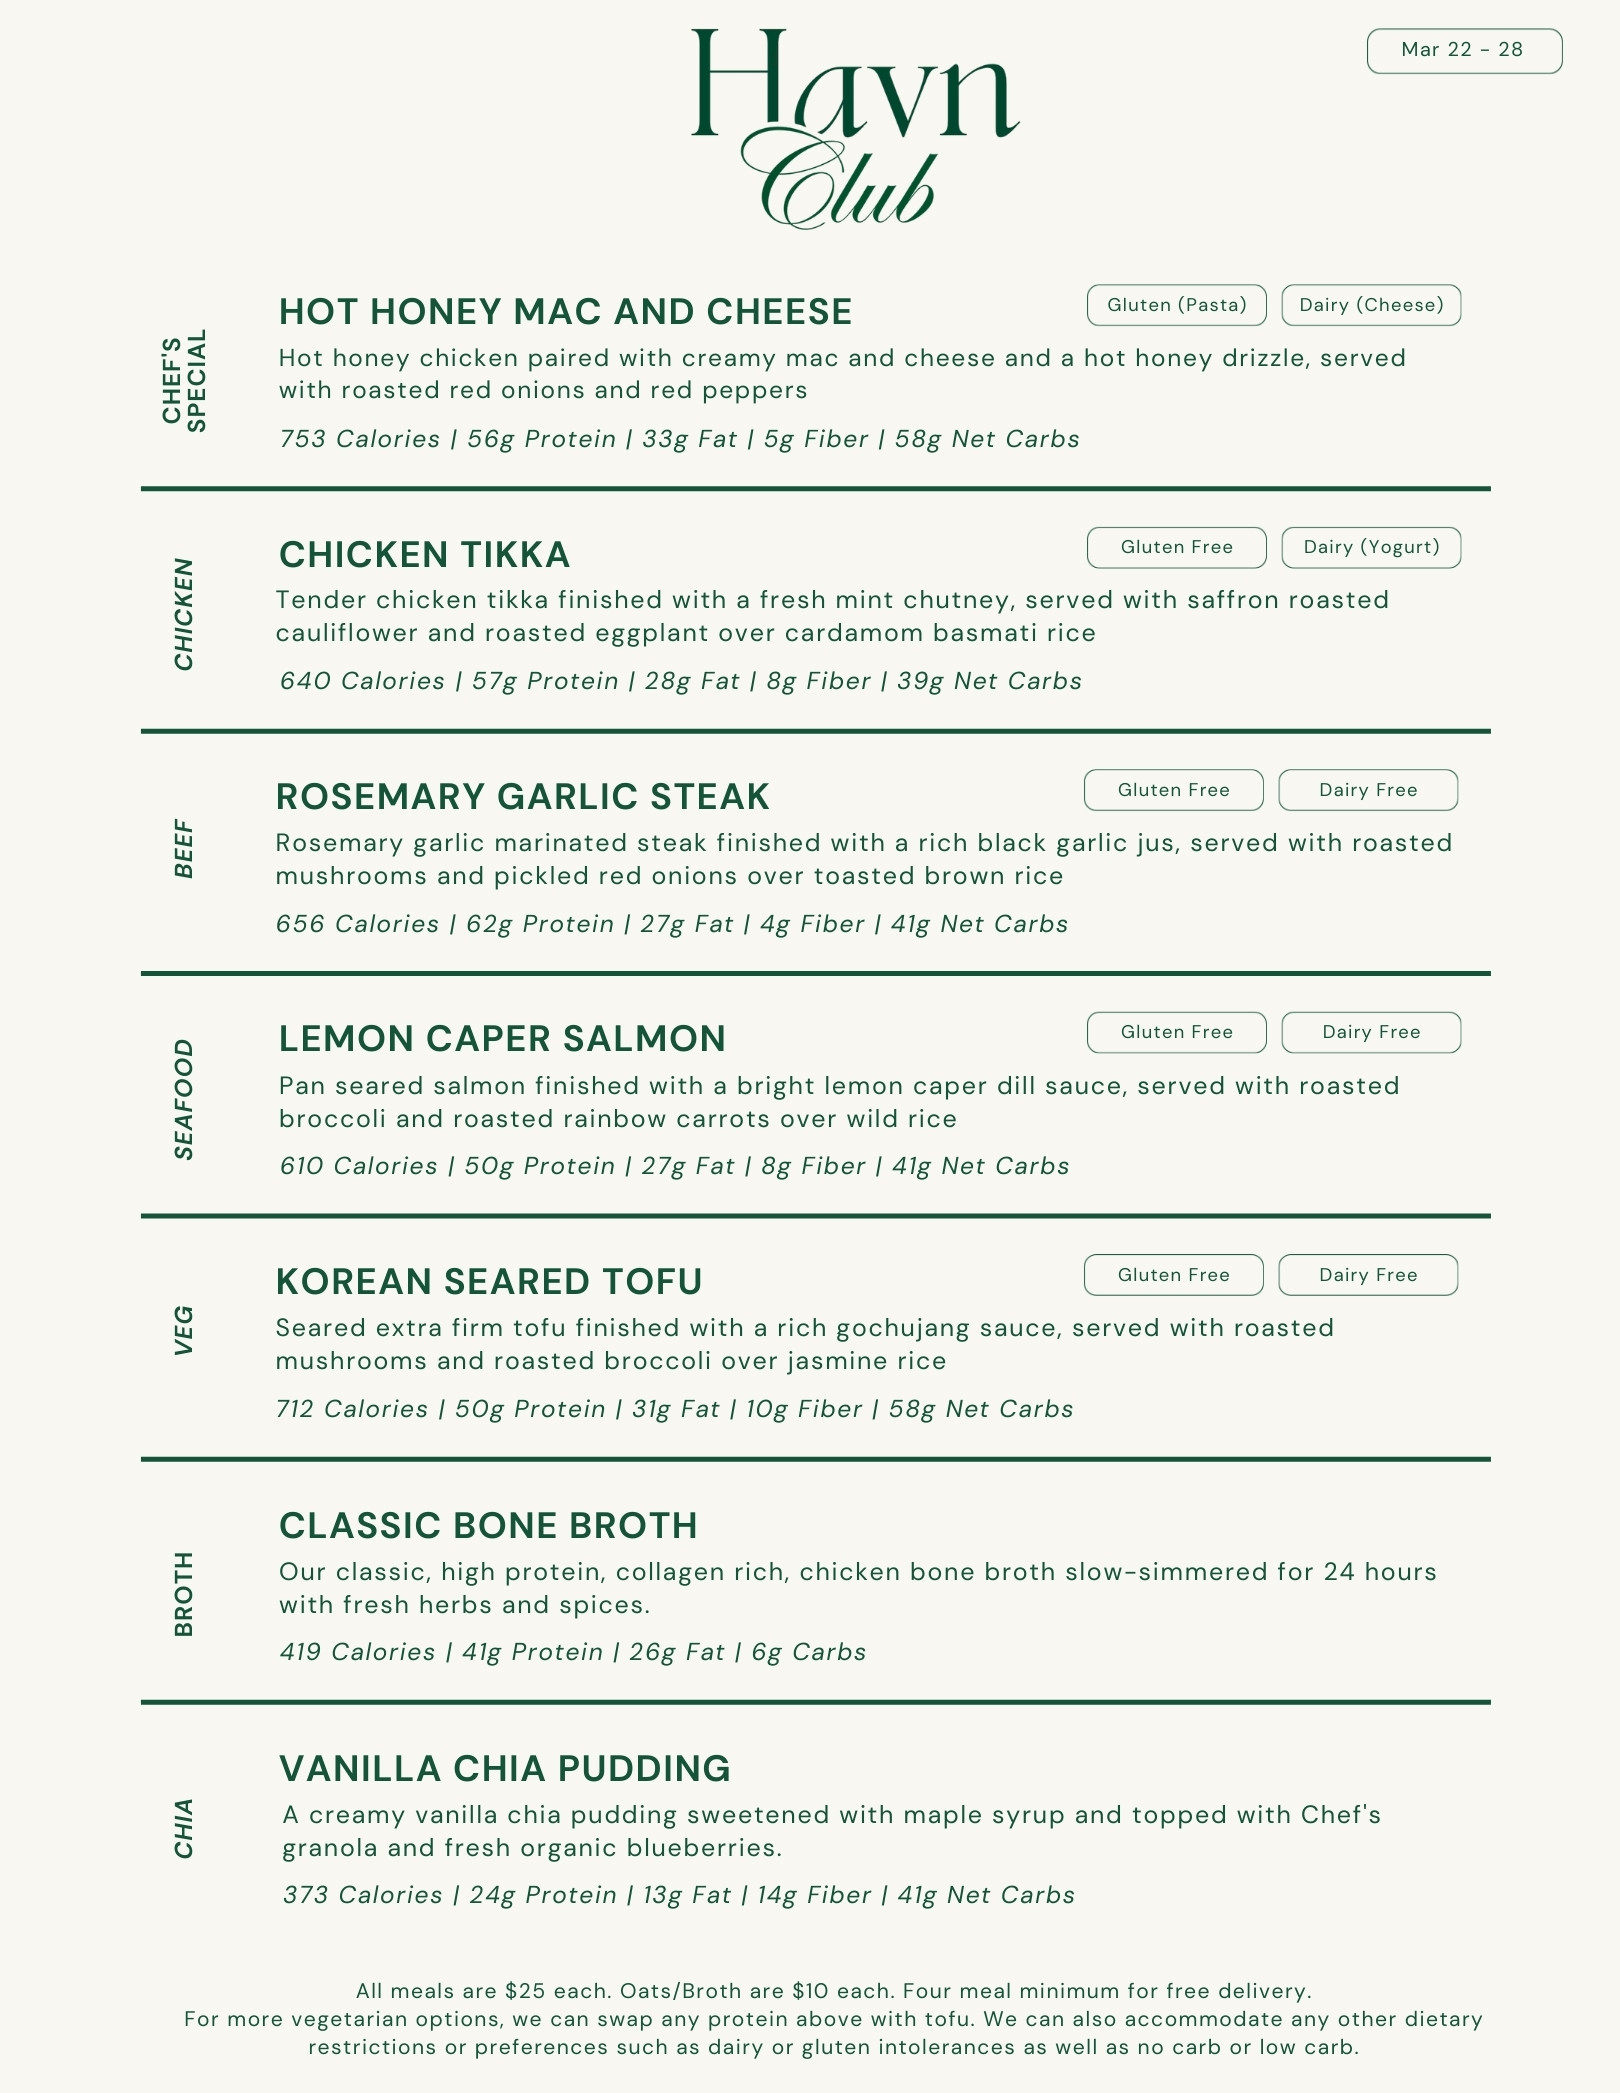
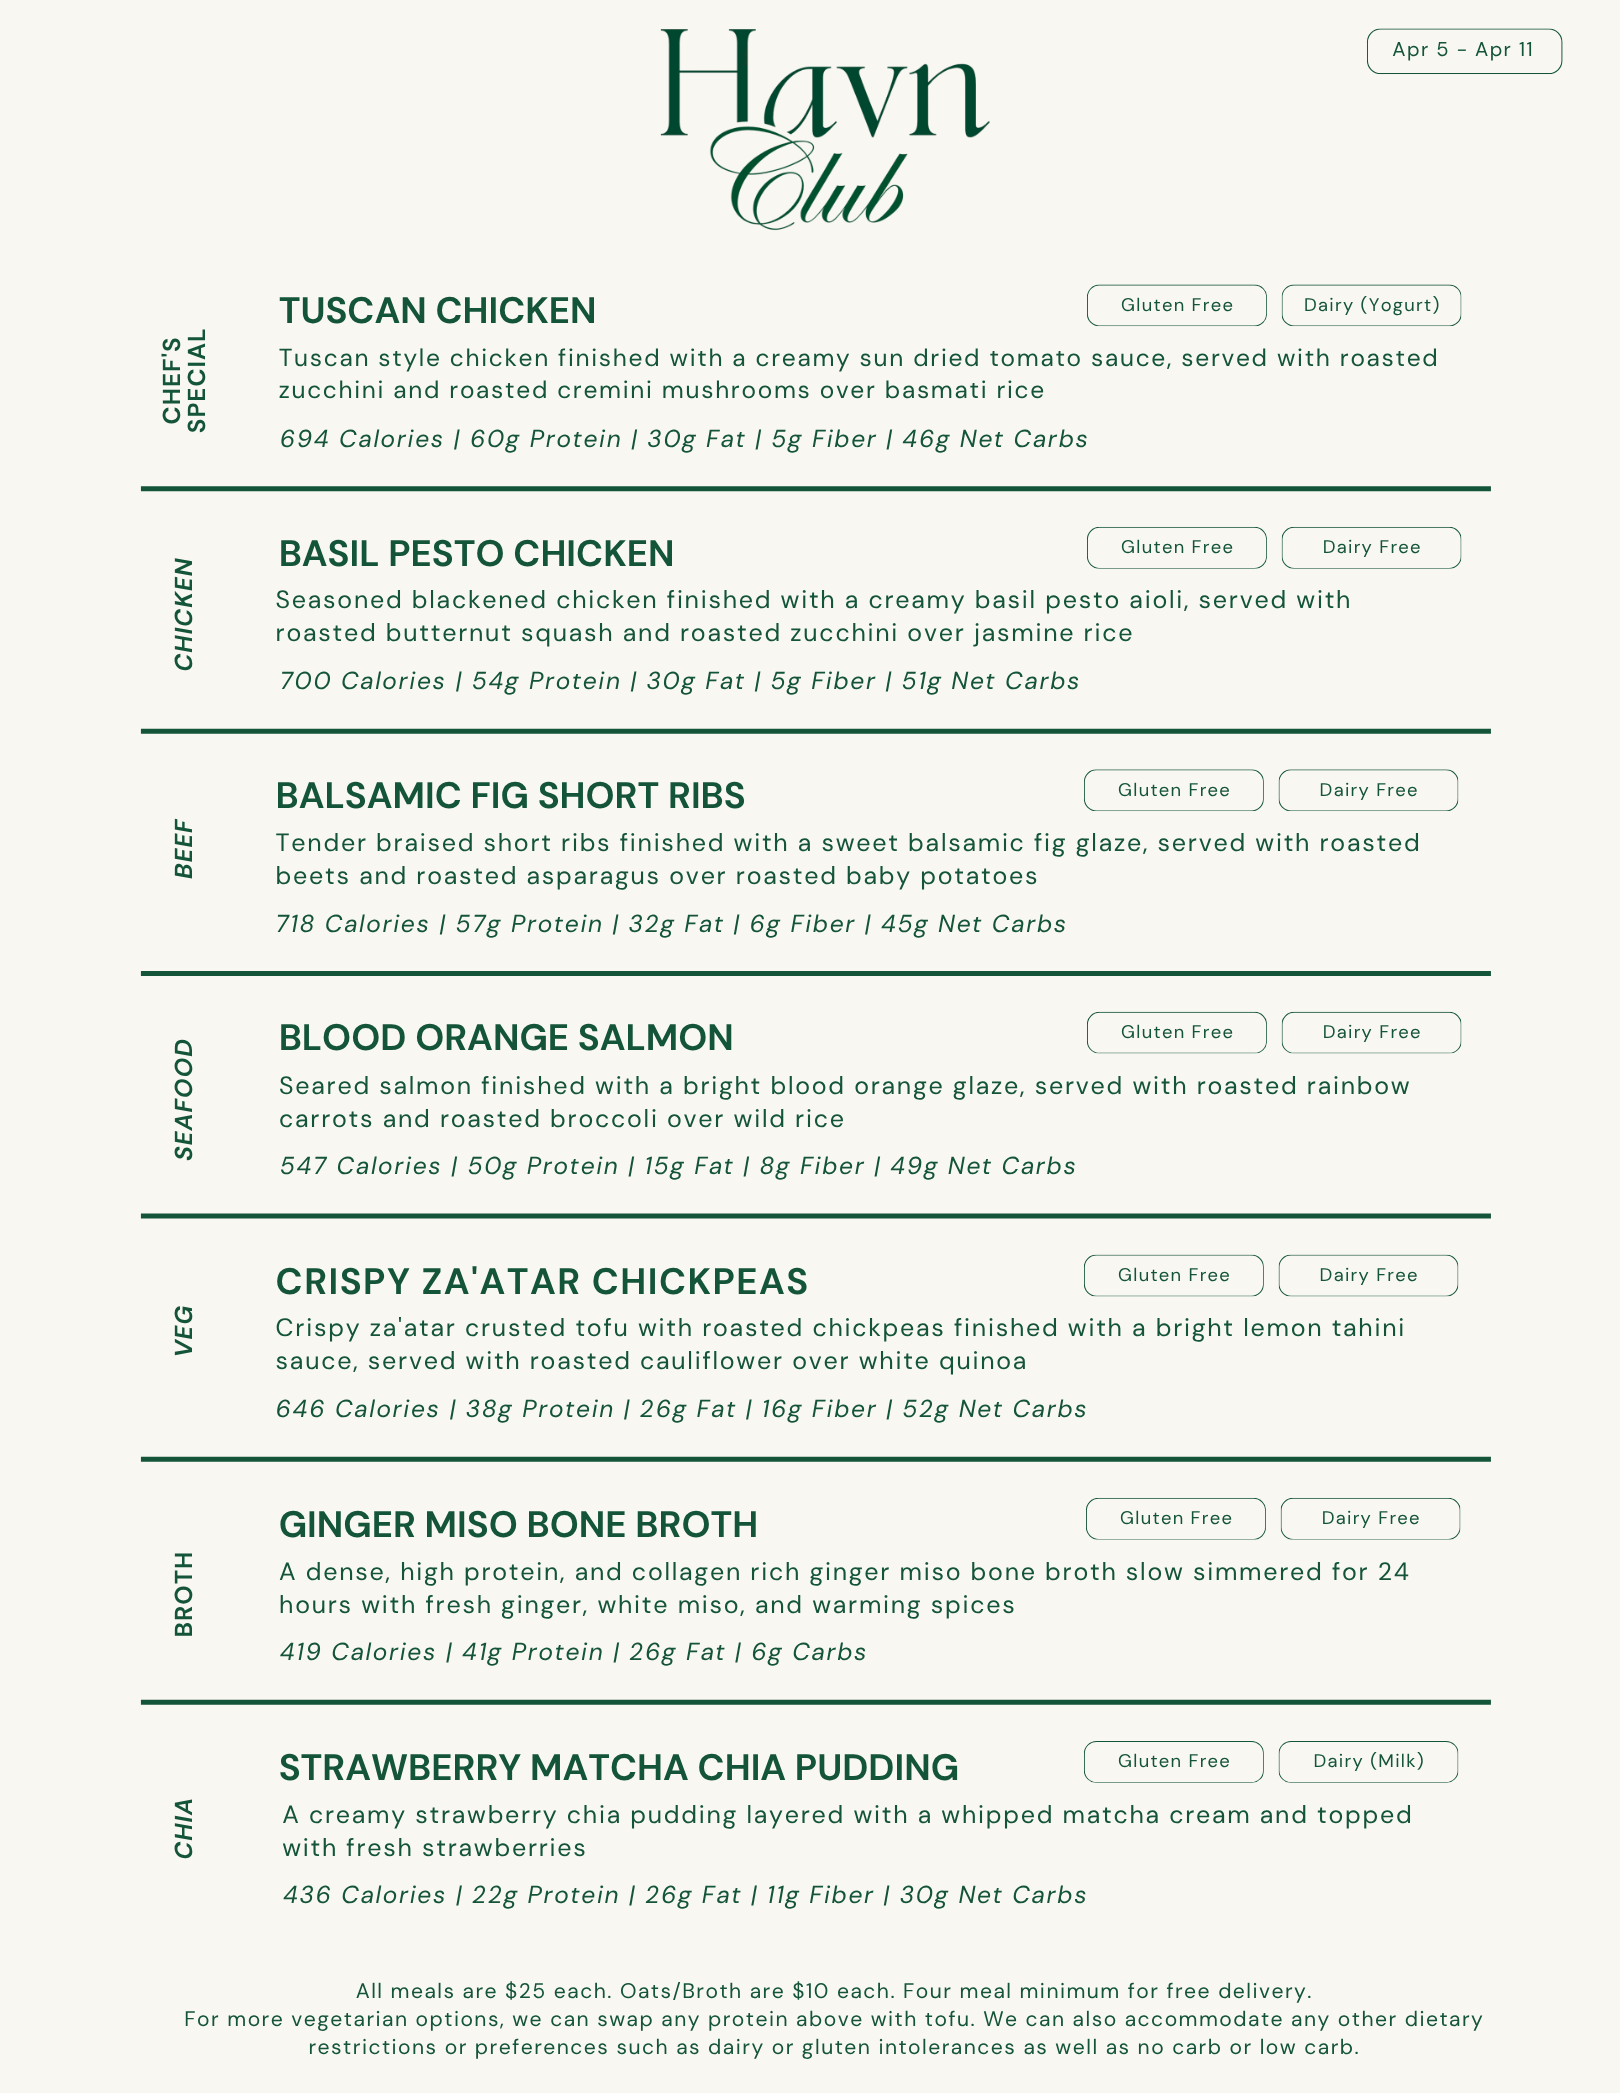
Deploy Apr 5th menu: Tuscan Chicken, Balsamic Fig Short Ribs, Blood Orange Salmon, Za'atar Chickpeas
- Updated index.html with all 7 dishes, macros, allergen tags, date range (Apr 5–11)
- Updated menu-preview.jpg (OG image for SMS/iMessage link previews)
- Added Apr 5th Menu File CSV

diff --git a/index.html b/index.html
@@ -1062,7 +1062,7 @@
             </div>
             <div class="header-info">
               <span class="header-name">Havn Club</span>
-              <span class="header-meta">Mar 29 – Apr 4</span>
+              <span class="header-meta">Apr 5 – Apr 11</span>
             </div>
           </div>
           <button class="help-btn" id="helpBtn">?</button>
@@ -1091,13 +1091,13 @@
           <div class="menu-item" data-key="special">
             <div class="item-cat"><span>Special</span></div>
             <div class="item-info">
-              <h3 class="item-name">Smash Burger Bowl</h3>
-              <p class="item-desc">Seasoned Ground Beef with a Smoky Special Burger Sauce and Caramelized Onions and Apple Cider Cabbage Slaw over Roasted Sweet Potato Wedges</p>
+              <h3 class="item-name">Tuscan Chicken</h3>
+              <p class="item-desc">Tuscan Chicken with a Creamy Sun Dried Tomato Sauce and Roasted Zucchini and Roasted Cremini Mushrooms over Basmati Rice</p>
               <div class="item-bottom">
                 <div class="item-macros">
-                  <span>687 cal</span>
+                  <span>694 cal</span>
                   <span class="dot"></span>
-                  <span>52g protein</span>
+                  <span>60g protein</span>
                 </div>
                 <div class="stepper">
                   <button class="stepper-btn minus" disabled>−</button>
@@ -1111,13 +1111,13 @@
           <div class="menu-item" data-key="chicken">
             <div class="item-cat"><span>Chicken</span></div>
             <div class="item-info">
-              <h3 class="item-name">Miso Garlic Chicken</h3>
-              <p class="item-desc">Miso Garlic Chicken with a White Miso Glaze and Charred Broccolini and Roasted Mushrooms over Jasmine Rice</p>
+              <h3 class="item-name">Basil Pesto Chicken</h3>
+              <p class="item-desc">Blackened Chicken with a Basil Pesto Aioli and Roasted Butternut Squash and Roasted Zucchini over Jasmine Rice</p>
               <div class="item-bottom">
                 <div class="item-macros">
-                  <span>644 cal</span>
+                  <span>700 cal</span>
                   <span class="dot"></span>
-                  <span>60g protein</span>
+                  <span>54g protein</span>
                 </div>
                 <div class="stepper">
                   <button class="stepper-btn minus" disabled>−</button>
@@ -1131,13 +1131,13 @@
           <div class="menu-item" data-key="beef">
             <div class="item-cat"><span>Beef</span></div>
             <div class="item-info">
-              <h3 class="item-name">Carne Asada Steak</h3>
-              <p class="item-desc">Carne Asada Steak with a Chimichurri and Roasted Sweet Plantains and Pickled Red Onions over Sazon Rice</p>
+              <h3 class="item-name">Balsamic Fig Short Ribs</h3>
+              <p class="item-desc">Braised Short Ribs with a Balsamic Fig Glaze and Roasted Beets and Roasted Asparagus over Roasted Baby Potatoes</p>
               <div class="item-bottom">
                 <div class="item-macros">
-                  <span>770 cal</span>
+                  <span>718 cal</span>
                   <span class="dot"></span>
-                  <span>54g protein</span>
+                  <span>57g protein</span>
                 </div>
                 <div class="stepper">
                   <button class="stepper-btn minus" disabled>−</button>
@@ -1151,13 +1151,13 @@
           <div class="menu-item" data-key="seafood">
             <div class="item-cat"><span>Seafood</span></div>
             <div class="item-info">
-              <h3 class="item-name">Honey Garlic Shrimp</h3>
-              <p class="item-desc">Honey Garlic Shrimp with a Sticky Honey Garlic Glaze and Charred Broccoli and Roasted Red Peppers over Brown Rice</p>
+              <h3 class="item-name">Blood Orange Salmon</h3>
+              <p class="item-desc">Seared Salmon with a Blood Orange Glaze and Roasted Rainbow Carrots and Roasted Broccoli over Wild Rice</p>
               <div class="item-bottom">
                 <div class="item-macros">
-                  <span>574 cal</span>
+                  <span>547 cal</span>
                   <span class="dot"></span>
-                  <span>57g protein</span>
+                  <span>50g protein</span>
                 </div>
                 <div class="stepper">
                   <button class="stepper-btn minus" disabled>−</button>
@@ -1171,13 +1171,13 @@
           <div class="menu-item" data-key="veg">
             <div class="item-cat"><span>Veg</span></div>
             <div class="item-info">
-              <h3 class="item-name">Chickpea Tikka Masala</h3>
-              <p class="item-desc">Seared Tofu in a Creamy Tikka Masala with Roasted Cauliflower and Chickpeas over Quinoa</p>
+              <h3 class="item-name">Crispy Za'atar Chickpeas</h3>
+              <p class="item-desc">Za'atar Crusted Tofu with Crispy Za'atar Chickpeas and a Lemon Tahini Sauce and Roasted Cauliflower over White Quinoa</p>
               <div class="item-bottom">
                 <div class="item-macros">
-                  <span>634 cal</span>
+                  <span>646 cal</span>
                   <span class="dot"></span>
-                  <span>51g protein</span>
+                  <span>38g protein</span>
                 </div>
                 <div class="stepper">
                   <button class="stepper-btn minus" disabled>−</button>
@@ -1198,13 +1198,13 @@
           <div class="menu-item" data-key="broth">
             <div class="item-cat"><span>Broth</span></div>
             <div class="item-info">
-              <h3 class="item-name">Golden Broth</h3>
-              <p class="item-desc">Our golden high protein and collagen rich turmeric and coconut milk bone broth slow-simmered for 24 hours</p>
+              <h3 class="item-name">Ginger Miso Bone Broth</h3>
+              <p class="item-desc">A dense high protein and collagen rich ginger miso bone broth slow simmered for 24 hours</p>
               <div class="item-bottom">
                 <div class="item-macros">
-                  <span>432 cal</span>
+                  <span>419 cal</span>
                   <span class="dot"></span>
-                  <span>36g protein</span>
+                  <span>41g protein</span>
                 </div>
                 <div class="stepper">
                   <button class="stepper-btn minus" disabled>−</button>
@@ -1218,8 +1218,8 @@
           <div class="menu-item" data-key="chia">
             <div class="item-cat"><span>Chia</span></div>
             <div class="item-info">
-              <h3 class="item-name">Mango Chia Pudding</h3>
-              <p class="item-desc">Mango chia pudding with coconut cream and fresh mango</p>
+              <h3 class="item-name">Strawberry Matcha Chia Pudding</h3>
+              <p class="item-desc">Strawberry chia pudding with a matcha cream layer and fresh strawberries</p>
               <div class="item-bottom">
                 <div class="item-macros">
                   <span>436 cal</span>
@@ -1386,59 +1386,59 @@
     // Data - Full descriptions for detail sheet
     const dishes = {
       special: {
-        name: 'Smash Burger Bowl',
+        name: 'Tuscan Chicken',
         category: 'special',
-        desc: 'Seasoned ground beef finished with a smoky special burger sauce, served with caramelized onions and a crisp apple cider cabbage slaw over roasted sweet potato wedges.',
-        macros: '687 cal · 52g protein · 39g fat · 6g fiber · 32g carbs',
+        desc: 'Tuscan style chicken finished with a creamy sun dried tomato sauce, served with roasted zucchini and roasted cremini mushrooms over basmati rice for a rich, savory plate with a warm, Italian finish.',
+        macros: '694 cal · 60g protein · 30g fat · 5g fiber · 46g carbs',
         tags: [{ text: 'Dairy (Yogurt)', safe: false }, { text: 'Gluten Free', safe: true }],
         price: 25
       },
       chicken: {
-        name: 'Miso Garlic Chicken',
+        name: 'Basil Pesto Chicken',
         category: 'chicken',
-        desc: 'Tender miso garlic chicken finished with a savory white miso glaze, served with charred broccolini and roasted mushrooms over jasmine rice.',
-        macros: '644 cal · 60g protein · 23g fat · 7g fiber · 50g carbs',
+        desc: 'Seasoned blackened chicken finished with a creamy basil pesto aioli, served with roasted butternut squash and roasted zucchini over jasmine rice for a fresh, herbaceous plate with a smooth, aromatic finish.',
+        macros: '700 cal · 54g protein · 30g fat · 5g fiber · 51g carbs',
         tags: [{ text: 'Gluten Free', safe: true }, { text: 'Dairy Free', safe: true }],
         price: 25
       },
       beef: {
-        name: 'Carne Asada Steak',
+        name: 'Balsamic Fig Short Ribs',
         category: 'beef',
-        desc: 'Marinated carne asada steak finished with a bright chimichurri, served with roasted sweet plantains and pickled red onions over sazon rice.',
-        macros: '770 cal · 54g protein · 36g fat · 4g fiber · 58g carbs',
+        desc: 'Tender braised short ribs finished with a sweet balsamic fig glaze, served with roasted beets and roasted asparagus over roasted baby potatoes for a rich, elevated plate with a bold, savory finish.',
+        macros: '718 cal · 57g protein · 32g fat · 6g fiber · 45g carbs',
         tags: [{ text: 'Gluten Free', safe: true }, { text: 'Dairy Free', safe: true }],
         price: 25
       },
       seafood: {
-        name: 'Honey Garlic Shrimp',
+        name: 'Blood Orange Salmon',
         category: 'seafood',
-        desc: 'Tender honey garlic shrimp finished with a sticky honey garlic glaze, served with charred broccoli and roasted red peppers over brown rice.',
-        macros: '574 cal · 57g protein · 8g fat · 7g fiber · 67g carbs',
+        desc: 'Seared salmon finished with a bright blood orange glaze, served with roasted rainbow carrots and roasted broccoli over wild rice for a light, citrus forward plate with a vibrant, refreshing finish.',
+        macros: '547 cal · 50g protein · 15g fat · 8g fiber · 49g carbs',
         tags: [{ text: 'Gluten Free', safe: true }, { text: 'Dairy Free', safe: true }],
         price: 25
       },
       veg: {
-        name: 'Chickpea Tikka Masala',
+        name: 'Crispy Za\'atar Chickpeas',
         category: 'veg',
-        desc: 'Crispy seared tofu in a rich creamy tikka masala, served with roasted cauliflower and chickpeas over quinoa.',
-        macros: '634 cal · 51g protein · 27g fat · 16g fiber · 47g carbs',
-        tags: [{ text: 'Gluten Free', safe: true }, { text: 'Dairy (Cream)', safe: false }],
+        desc: 'Crispy za\'atar crusted tofu with roasted chickpeas finished with a bright lemon tahini sauce, served with roasted cauliflower over white quinoa for a warm, Mediterranean plate with a zesty, nutty finish.',
+        macros: '646 cal · 38g protein · 26g fat · 16g fiber · 52g carbs',
+        tags: [{ text: 'Gluten Free', safe: true }, { text: 'Dairy Free', safe: true }],
         price: 25
       },
       broth: {
-        name: 'Golden Broth',
+        name: 'Ginger Miso Bone Broth',
         category: 'broth',
-        desc: 'Our golden turmeric and coconut milk bone broth slow-simmered for 24 hours with fresh ginger and warming spices.',
-        macros: '432 cal · 36g protein · 29g fat · 7g carbs',
+        desc: 'A dense, high protein, and collagen rich ginger miso bone broth slow simmered for 24 hours with fresh ginger, white miso, and warming spices.',
+        macros: '419 cal · 41g protein · 26g fat · 6g carbs',
         tags: [{ text: 'Gluten Free', safe: true }, { text: 'Dairy Free', safe: true }],
         price: 10
       },
       chia: {
-        name: 'Mango Chia Pudding',
+        name: 'Strawberry Matcha Chia Pudding',
         category: 'chia',
-        desc: 'A creamy mango chia pudding layered with coconut cream and topped with fresh mango.',
+        desc: 'A creamy strawberry chia pudding layered with a whipped matcha cream and topped with fresh strawberries.',
         macros: '436 cal · 22g protein · 26g fat · 11g fiber · 30g carbs',
-        tags: [{ text: 'Dairy (Mascarpone)', safe: false }, { text: 'Gluten Free', safe: true }],
+        tags: [{ text: 'Dairy (Cream Layer)', safe: false }, { text: 'Gluten Free', safe: true }],
         price: 10
       }
     };
